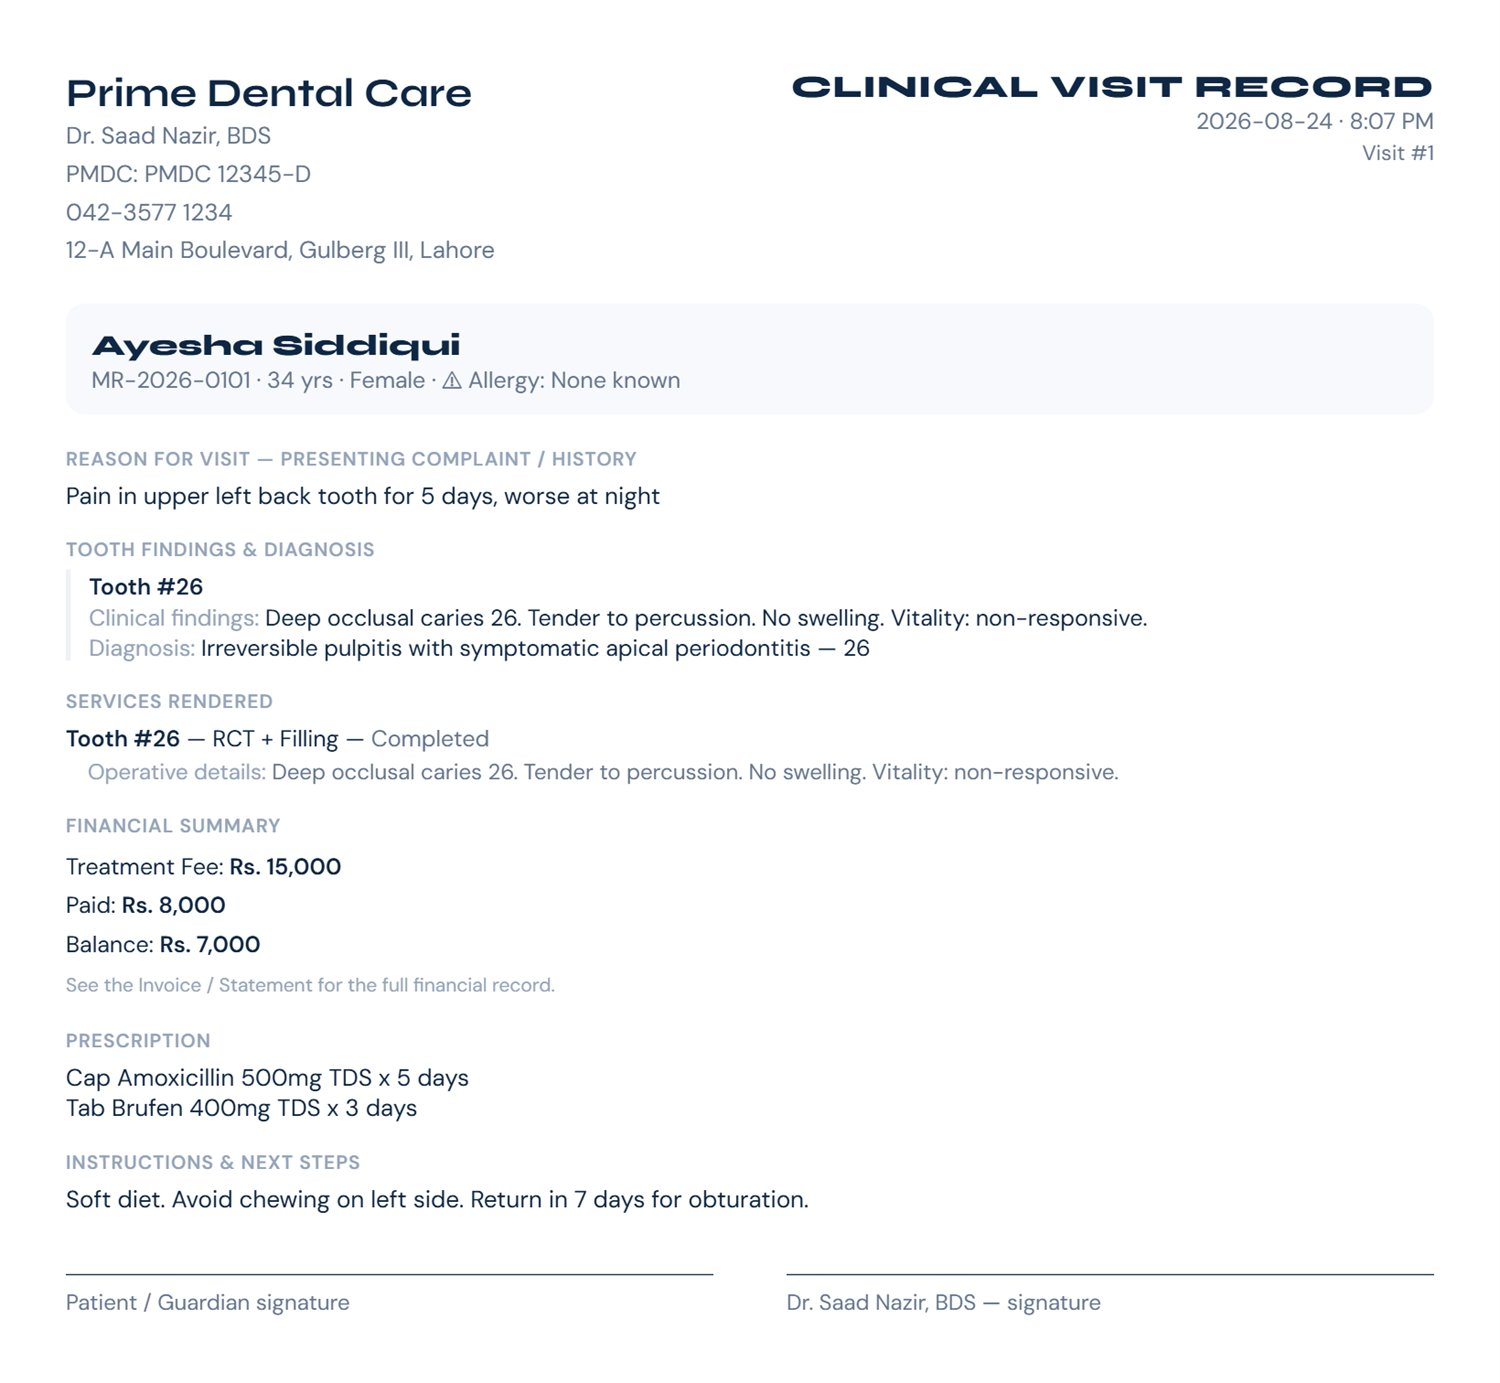
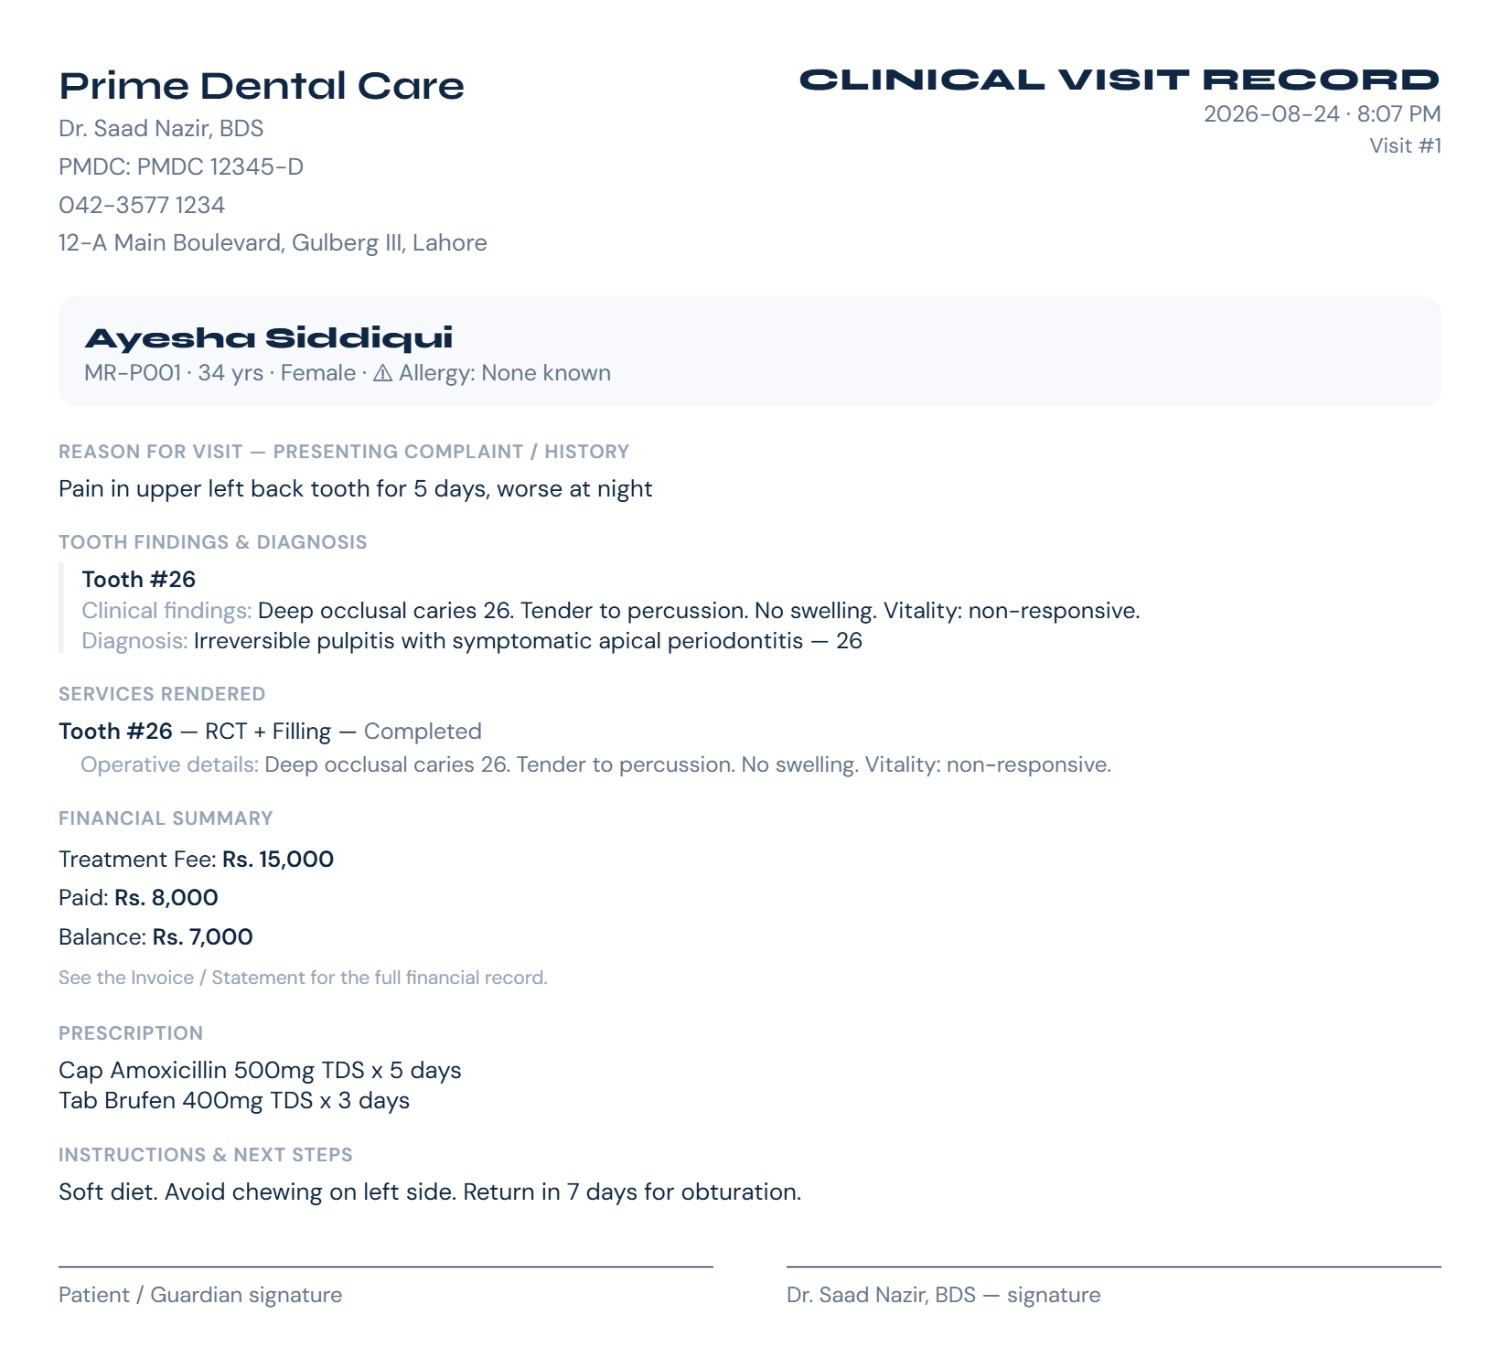
Fix MR numbers in screenshots to match the app (MR-P001 format)
Demo seed used hand-typed MR-2026-01xx IDs; the app issues P001 and shows MR-P001.
Re-shot dashboard, patients, visit log, prescription and clinical record; patched og-card.

diff --git a/index.html b/index.html
@@ -392,7 +392,7 @@
           <li>What was charged and what was paid sit on the same line as the clinical work</li>
         </ul>
       </div>
-      <div><div class="shot"><img loading="lazy" src="img/03-visitlog.jpg" width="1500" height="1155" alt="Visit log listing visits with tooth number, procedure, diagnosis, charged and paid"></div></div>
+      <div><div class="shot"><img loading="lazy" src="img/03-visitlog.jpg" width="1500" height="1028" alt="Visit log listing visits with tooth number, procedure, diagnosis, charged and paid"></div></div>
     </div>
 
     <!-- 4 -->
@@ -417,7 +417,7 @@
       </div>
       <div class="pair">
         <div>
-          <div class="shot shot--doc"><img loading="lazy" src="img/14-clinical-record.jpg" width="1500" height="1383" alt="Printed clinical visit record on clinic letterhead showing complaint, findings, diagnosis, services rendered, financial summary and prescription"></div>
+          <div class="shot shot--doc"><img loading="lazy" src="img/14-clinical-record.jpg" width="1500" height="1368" alt="Printed clinical visit record on clinic letterhead showing complaint, findings, diagnosis, services rendered, financial summary and prescription"></div>
           <div class="cap"><b>Clinical Visit Record</b> — the full note, for your file</div>
         </div>
         <div>
